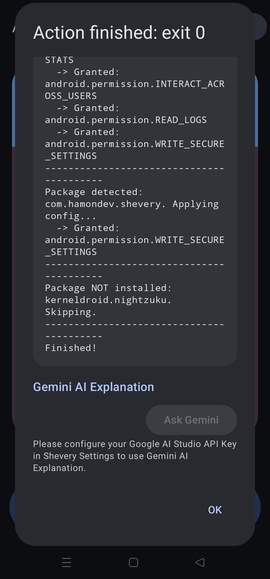
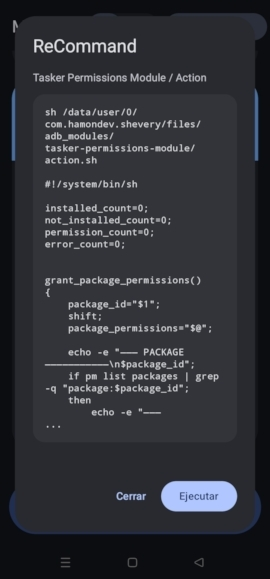
Refining output format for action.sh

diff --git a/README.md b/README.md
@@ -34,7 +34,8 @@ The module consists of two main execution layers:
 ![alt text](docs/screenshots/app_view_notinstalled.jpg)
 
 ![Before executing action.sh](docs/screenshots/action_before.jpg)
-![After executing action.sh](docs/screenshots/action_after.jpg)
+![After executing action.sh](docs/screenshots/action_after1.jpg)
+![Result executing action.sh](docs/screenshots/action_after2.jpg)
 
 
 ## Supported Applications
